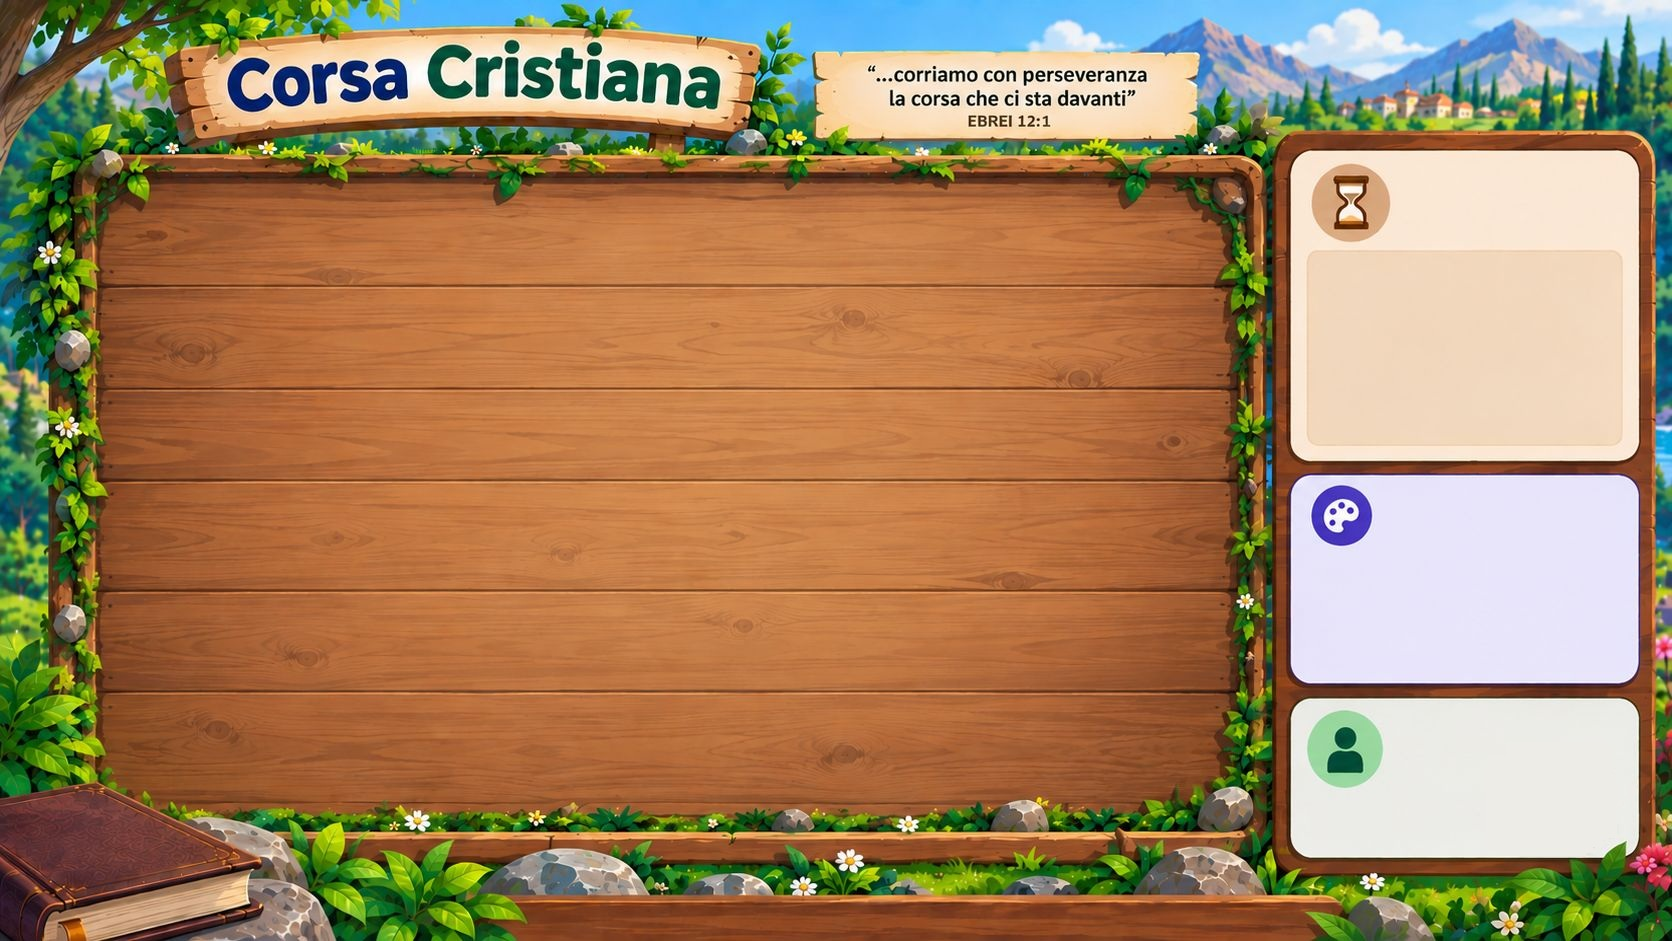
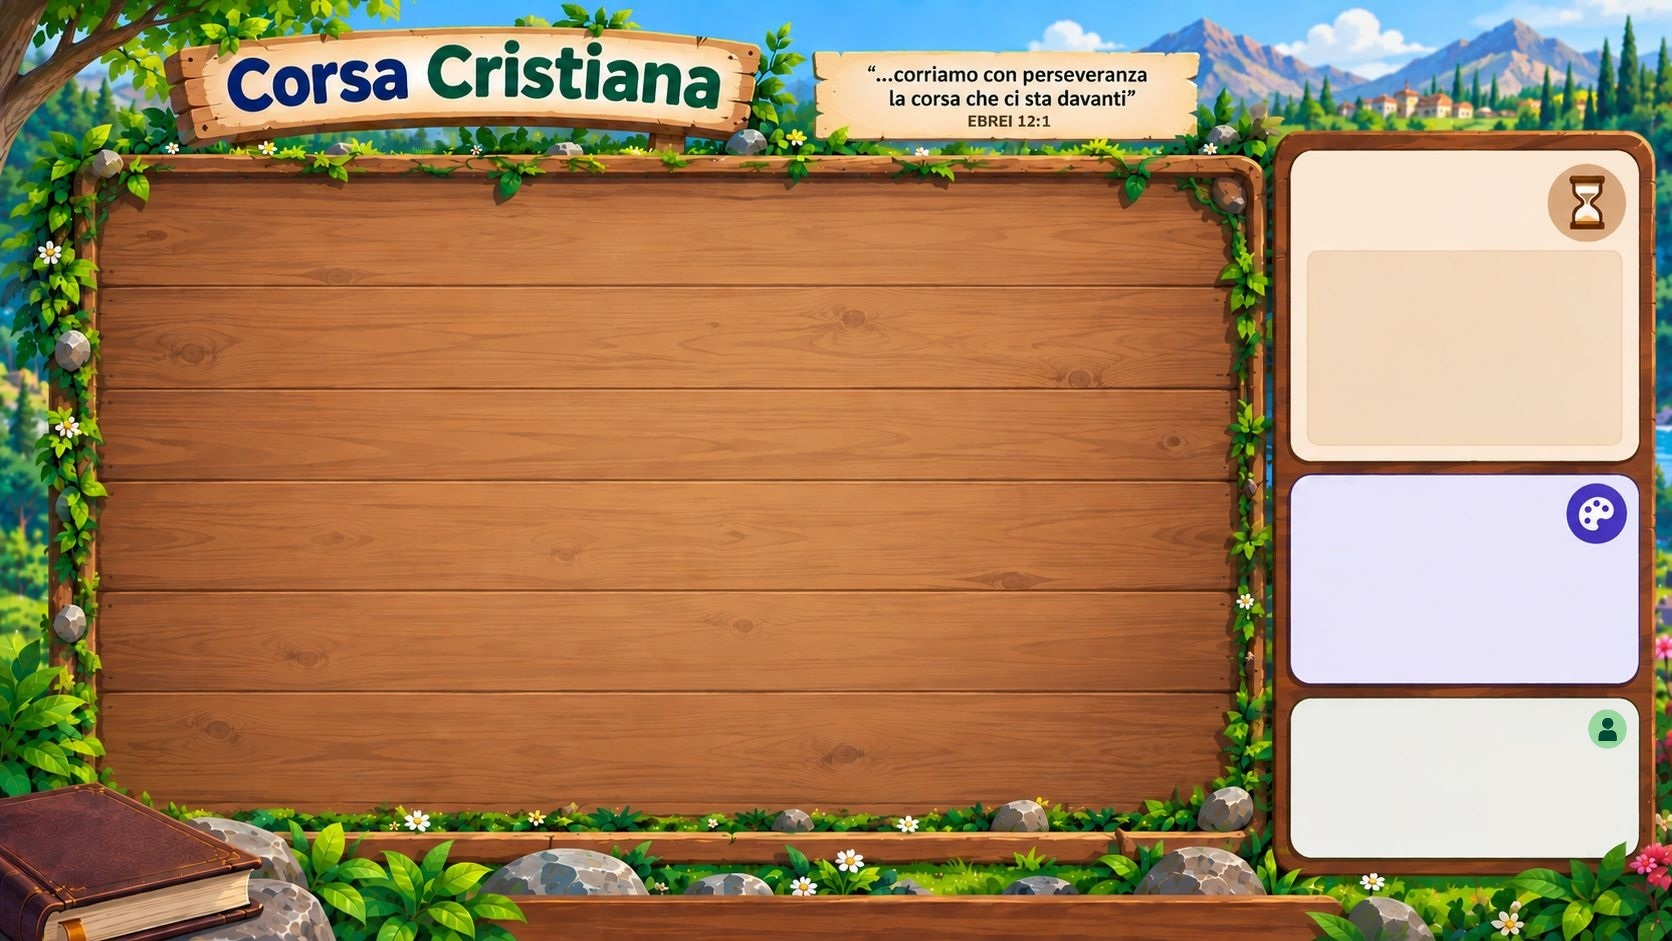
Rifatta la legenda del tabellone: icone piu' leggibili, due colonne, pannelli allineati
Testo e pallini piu' grandi, due colonne invece di una lista lunga; i tre pannelli laterali (sospeso, legenda, turno) ora condividono la stessa posizione, spostata a sinistra, con lo sfondo adattato di conseguenza. Testo della legenda ridotto ~10% per equilibrare le proporzioni.

Ritoccata anche la soglia di restringimento testo nella schermata 'hai superato la prova?'.

Claude-Session: https://claude.ai/code/session_014qBgpBFvX1sCTLSLcF25g8

diff --git a/css/tabellone.css b/css/tabellone.css
@@ -140,8 +140,10 @@ body {
 
 .pannello-laterale {
   position: absolute;
-  left: 82%;
-  width: 14%;
+  /* prima left:82%/width:14%: spostato tutto il gruppo (sospeso, legenda,
+     turno) un po' piu' a sinistra, margine destro invariato (77+19 = 96) */
+  left: 77%;
+  width: 19%;
   overflow: hidden;
   font-size: 0.9em;
   color: #4a3b2a;
@@ -161,7 +163,7 @@ body {
 
 #pannello-legenda {
   top: 53%;
-  height: 16%;
+  height: 40%;
   padding: 0.2em 0.6em;
 }
 
@@ -172,10 +174,15 @@ body {
 }
 
 #legenda-lista {
-  display: flex;
-  flex-direction: column;
-  gap: 0.15em;
-  font-size: 0.7em;
+  /* due colonne invece di una lista lunga 5 righe: cosi' servono solo 3
+     righe di altezza invece di 5, a parita' di dimensione delle icone */
+  display: grid;
+  grid-template-columns: 1fr 1fr;
+  gap: 0.2em 0.5em;
+  /* prima 0.7em: moltiplicato per lo 0.9em di .pannello-laterale diventava
+     0.63em effettivo, il doppio rimpicciolimento che rendeva tutto minuscolo.
+     Poi 0.95em, ridotto ~10% su richiesta di Francesco */
+  font-size: 0.85em;
 }
 
 .legenda-riga {
@@ -185,9 +192,10 @@ body {
 }
 
 .legenda-pallino {
-  width: 0.9em;
-  height: 0.9em;
-  border-radius: 0.25em;
+  /* prima 0.9em (e per giunta dentro il font-size gia' raddoppiato sopra) */
+  width: 1.7em;
+  height: 1.7em;
+  border-radius: 0.35em;
   flex-shrink: 0;
 }
 

diff --git a/js/carta-ui.js b/js/carta-ui.js
@@ -27,7 +27,7 @@ const SOGLIA_TESTO_LUNGO = 170;
 // Stessa idea, ma soglia piu' bassa: la schermata "hai superato la
 // prova?" ha sotto il testo anche il titolo, il countdown e due
 // pulsanti, quindi parte con meno spazio libero della carta normale.
-const SOGLIA_TESTO_LUNGO_VINCOLO = 170;
+const SOGLIA_TESTO_LUNGO_VINCOLO = 160;
 
 // Quanto resta visibile il retro della carta (sfondo + icona) prima di
 // girarsi e mostrare il fronte. Unico punto da cambiare: vale ovunque
